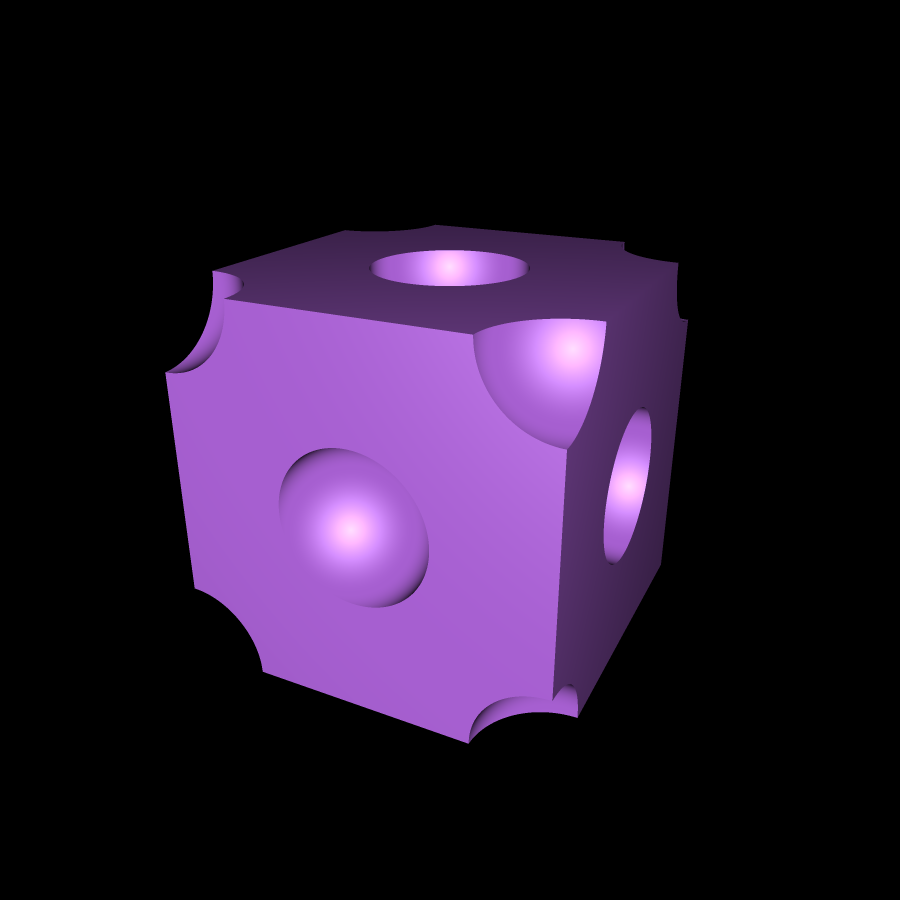
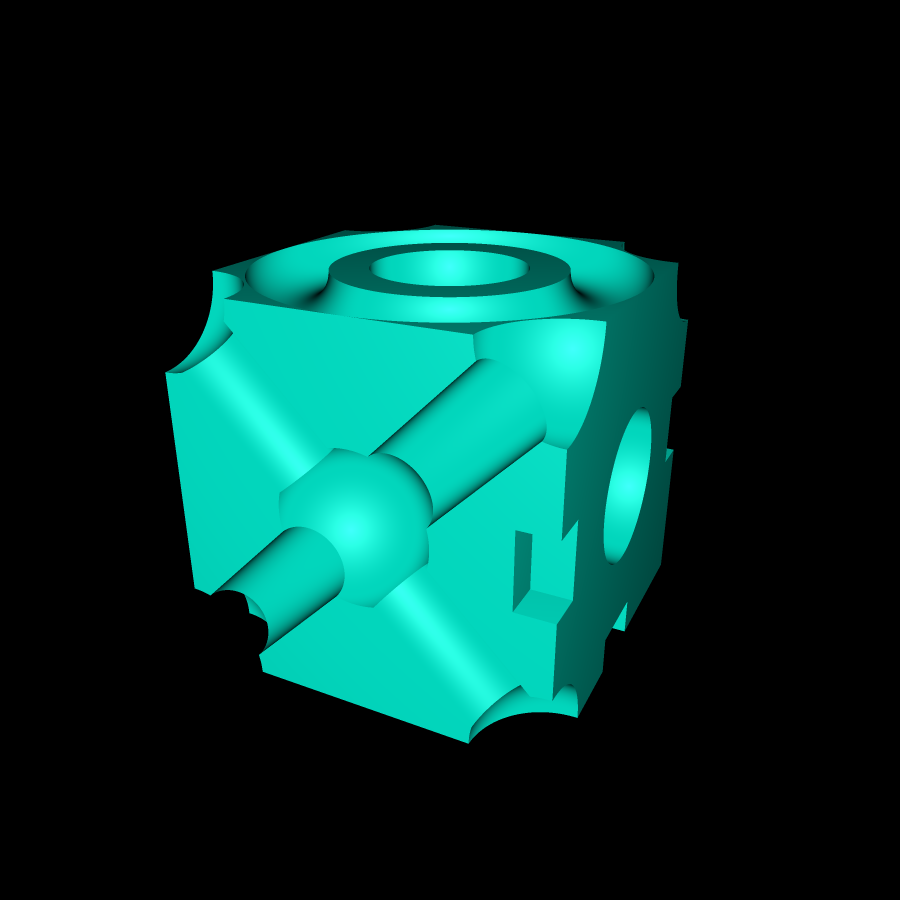
black cylinder cube torus

Changed region(s): [[0.1867, 0.2489, 0.7778, 0.84]]

diff --git a/src/main/java/rayTracer/objects/blackObjects/BlackCube.java b/src/main/java/rayTracer/objects/blackObjects/BlackCube.java
@@ -1,0 +1,168 @@
+package rayTracer.objects.blackObjects;
+
+import rayTracer.enums.MatrixTransformEnum;
+import rayTracer.math.Line3D;
+import rayTracer.math.Point3D;
+import rayTracer.math.Vector3D;
+import rayTracer.utils.Color;
+import rayTracer.utils.Cutter;
+import rayTracer.utils.Intersection;
+
+import java.util.List;
+
+public class BlackCube extends BlackObject{
+    protected static final Vector3D upNormal = new Vector3D(0, 0, 1);
+    protected static final Vector3D downNormal = new Vector3D(0, 0, -1);
+    protected static final Vector3D rightNormal = new Vector3D(0, 1, 0);
+    protected static final Vector3D leftNormal = new Vector3D(0, -1, 0);
+    protected static final Vector3D frontNormal = new Vector3D(-1, 0, 0);
+    protected static final Vector3D backNormal = new Vector3D(1, 0, 0);
+    protected  Vector3D realUpNormal;
+    protected  Vector3D realDownNormal;
+    protected  Vector3D realRightNormal;
+    protected  Vector3D realLeftNormal;
+    protected  Vector3D realFrontNormal;
+    protected  Vector3D realBackNormal;
+    protected double size;
+
+    public BlackCube(double size) {
+        super();
+        this.size = size / 2;
+    }
+
+    public void setNormals() {
+        try {
+            realUpNormal = transform.apply(upNormal, MatrixTransformEnum.TO_REAL);
+            realDownNormal = transform.apply(downNormal, MatrixTransformEnum.TO_REAL);
+            realRightNormal = transform.apply(rightNormal, MatrixTransformEnum.TO_REAL);
+            realLeftNormal = transform.apply(leftNormal, MatrixTransformEnum.TO_REAL);
+            realBackNormal = transform.apply(backNormal, MatrixTransformEnum.TO_REAL);
+            realFrontNormal = transform.apply(frontNormal, MatrixTransformEnum.TO_REAL);
+        } catch (Exception e) {
+
+        }
+    }
+
+    @Override
+    public void hit(Line3D ray, List<Intersection> intersections) throws Exception {
+        Line3D localRay = transform.apply(ray, MatrixTransformEnum.TO_LOCAL);
+
+        double x0, y0, z0, a, b, c;
+        x0 = localRay.getPX();
+        y0 = localRay.getPY();
+        z0 = localRay.getPZ();
+        a = localRay.getVX();
+        b = localRay.getVY();
+        c = localRay.getVZ();
+
+        double t;
+        double x, y, z;
+        if (c > EPSILON || c < -EPSILON) {
+            // UP
+            t = (size - z0) / c;
+            if(t > 0) {
+                x = x0 + a * t;
+                y = y0 + b * t;
+                z = size;
+
+                if (y >= -size && y <= size && x >= -size && x <= size) {
+                    Point3D localIntersection = new Point3D(x, y, z);
+                    Point3D realIntersection = transform.apply(localIntersection, MatrixTransformEnum.TO_REAL);
+                    double dist = Point3D.distanceBetween(realIntersection, ray.getPoint());
+                    Vector3D realNormal = realUpNormal;
+                    if(Vector3D.angleBetween(realNormal, ray.getVector()) < 90)
+                        realNormal = realDownNormal;
+                    intersections.add(new Intersection(realIntersection, realNormal, null, dist, 0, this));
+                }
+            }
+            // DOWN
+            t = (-size -z0) / c;
+            if(t > 0) {
+                x = x0 + a * t;
+                y = y0 + b * t;
+                z = -size;
+
+                if (y >= -size && y <= size && x >= -size && x <= size) {
+                    Point3D localIntersection = new Point3D(x, y, z);
+                    Point3D realIntersection = transform.apply(localIntersection, MatrixTransformEnum.TO_REAL);
+                    double dist = Point3D.distanceBetween(realIntersection, ray.getPoint());
+                    Vector3D realNormal = realDownNormal;
+                    if(Vector3D.angleBetween(realNormal, ray.getVector()) < 90)
+                        realNormal = realUpNormal;
+                    intersections.add(new Intersection(realIntersection, realNormal, null, dist, 0, this));
+                }
+            }
+        }
+        if (b > EPSILON || b < -EPSILON) {
+            // LEFT
+            t = (-size - y0) / b;
+            if(t > 0) {
+                x = x0 + a * t;
+                y = -size;
+                z = z0 + c * t;
+
+                if (z >= -size && z <= size && x >= -size && x <= size) {
+                    Point3D localIntersection = new Point3D(x, y, z);
+                    Point3D realIntersection = transform.apply(localIntersection, MatrixTransformEnum.TO_REAL);
+                    double dist = Point3D.distanceBetween(realIntersection, ray.getPoint());
+                    Vector3D realNormal = realLeftNormal;
+                    if(Vector3D.angleBetween(realNormal, ray.getVector()) < 90)
+                        realNormal = realRightNormal;
+                    intersections.add(new Intersection(realIntersection, realNormal, null, dist, 0, this));
+                }
+            }
+            // RIGHT
+            t = (size -y0) / b;
+            if(t > 0) {
+                x = x0 + a * t;
+                y = size;
+                z = z0 + c * t;
+
+                if (z >= -size && z <= size && x >= -size && x <= size) {
+                    Point3D localIntersection = new Point3D(x, y, z);
+                    Point3D realIntersection = transform.apply(localIntersection, MatrixTransformEnum.TO_REAL);
+                    double dist = Point3D.distanceBetween(realIntersection, ray.getPoint());
+                    Vector3D realNormal = realRightNormal;
+                    if(Vector3D.angleBetween(realNormal, ray.getVector()) < 90)
+                        realNormal = realLeftNormal;
+                    intersections.add(new Intersection(realIntersection, realNormal, null, dist, 0, this));
+                }
+            }
+        }
+        if (a > EPSILON || a < -EPSILON) {
+            // BACK
+            t = (size - x0) / a;
+            if(t > 0) {
+                x = size;
+                y = y0 + b * t;
+                z = z0 + c * t;
+
+                if (z >= -size && z <= size && y >= -size && y <= size) {
+                    Point3D localIntersection = new Point3D(x, y, z);
+                    Point3D realIntersection = transform.apply(localIntersection, MatrixTransformEnum.TO_REAL);
+                    double dist = Point3D.distanceBetween(realIntersection, ray.getPoint());
+                    Vector3D realNormal = realBackNormal;
+                    if(Vector3D.angleBetween(realNormal, ray.getVector()) < 90)
+                        realNormal = realFrontNormal;
+                    intersections.add(new Intersection(realIntersection, realNormal, null, dist, 0, this));
+                }
+            }
+            // FRONT
+            t = (-size - x0) / a;
+            if(t > 0) {
+                x = -size;
+                y = y0 + b * t;
+                z = z0 + c * t;
+
+                if (z >= -size && z <= size && y >= -size && y <= size) {
+                    Point3D localIntersection = new Point3D(x, y, z);
+                    Point3D realIntersection = transform.apply(localIntersection, MatrixTransformEnum.TO_REAL);
+                    double dist = Point3D.distanceBetween(realIntersection, ray.getPoint());
+                    Vector3D realNormal = realFrontNormal;
+                    if(Vector3D.angleBetween(realNormal, ray.getVector()) < 90)
+                        realNormal = realBackNormal;
+                    intersections.add(new Intersection(realIntersection, realNormal, null, dist, 0, this));
+                }
+            }
+        }
+    }}

diff --git a/src/main/java/rayTracer/objects/blackObjects/BlackTorus.java b/src/main/java/rayTracer/objects/blackObjects/BlackTorus.java
@@ -1,0 +1,77 @@
+package rayTracer.objects.blackObjects;
+
+import rayTracer.enums.MatrixTransformEnum;
+import rayTracer.math.Line3D;
+import rayTracer.math.Point3D;
+import rayTracer.math.Solver;
+import rayTracer.math.Vector3D;
+import rayTracer.utils.Cutter;
+import rayTracer.utils.Intersection;
+
+import java.util.List;
+
+public class BlackTorus extends BlackObject{
+    private final double r; //minor radius
+    private final double R; //major radius
+
+    public BlackTorus(double R, double r) {
+        super();
+        this.r = r;
+        this.R = R;
+    }
+
+    @Override
+    public void hit(Line3D ray, List<Intersection> intersections) throws Exception {
+        Line3D localRay = transform.apply(ray, MatrixTransformEnum.TO_LOCAL);
+        localRay.normalize();
+
+        double x0 = localRay.getPX();
+        double y00 = localRay.getPZ();
+        double z0 = localRay.getPY();
+
+        double a = localRay.getVX();
+        double b = localRay.getVZ();
+        double c = localRay.getVY();
+
+        double a2 = a*a;
+        double b2 = b*b;
+        double c2 = c*c;
+
+        double x02 = x0*x0;
+        double y02 = y00*y00;
+        double z02 = z0*z0;
+
+        double R2 = R*R;
+        double r2 = r*r;
+
+        double t4 = (a2 + b2 + c2) * (a2 + b2 + c2);
+        double t3 = 4 * (a2 + b2 + c2) * (x0*a + y00*b + z0*c);
+        double t2 = 2 * (a2 + b2 + c2) * (x02 + y02 + z02 - (r2 + R2)) + 4*(x0*a + y00*b + z0*c) * (x0*a + y00*b + z0*c)+ 4*R2*b2;
+        double t1 = 4 * (x02 + y02 + z02 - (r2 + R2)) * (x0*a + y00*b + z0*c) + 8*R2*y00*b;
+        double t0 = (x02 + y02 + z02 - (r2 + R2)) * (x02 + y02 + z02 - (r2 + R2)) - 4*R2*(r2 - y02);
+
+        List<Double> solutions = Solver.solve(t4, t3, t2, t1, t0);
+        for (int i = 0; i < solutions.size(); ++i) {
+            if (solutions.get(i) > EPSILON) {
+                Point3D localIntersection = new Point3D(
+                        localRay.getPX() + localRay.getVX() * solutions.get(i),
+                        localRay.getPY() + localRay.getVY() * solutions.get(i),
+                        localRay.getPZ() + localRay.getVZ() * solutions.get(i)
+                );
+                Point3D realIntersection = this.transform.apply(localIntersection, MatrixTransformEnum.TO_REAL);
+                Vector3D localNormal = getNormal(localIntersection);
+                Vector3D realNormal = this.transform.apply(localNormal, MatrixTransformEnum.TO_REAL);
+                if(Vector3D.angleBetween(realNormal, ray.getVector()) < 90)
+                    realNormal.inverse();
+                intersections.add(new Intersection(realIntersection, realNormal, null, Point3D.distanceBetween(ray.getPoint(), realIntersection), 0, this));
+            }
+        }
+    }
+
+    public Vector3D getNormal(Point3D localIntersection) {
+        Vector3D tmp = new Vector3D(localIntersection.getX(), localIntersection.getY(), 0);
+        tmp.normalize();
+        tmp.times(R);
+        return new Vector3D(localIntersection.getX() - tmp.getX(), localIntersection.getY() - tmp.getY(), localIntersection.getZ());
+    }
+}

diff --git a/src/main/java/rayTracer/objects/blackObjects/BlackCylinder.java b/src/main/java/rayTracer/objects/blackObjects/BlackCylinder.java
@@ -1,0 +1,53 @@
+package rayTracer.objects.blackObjects;
+
+import rayTracer.enums.MatrixTransformEnum;
+import rayTracer.math.Line3D;
+import rayTracer.math.Point3D;
+import rayTracer.math.Solver;
+import rayTracer.math.Vector3D;
+import rayTracer.utils.Cutter;
+import rayTracer.utils.Intersection;
+
+import java.util.List;
+
+public class BlackCylinder extends BlackObject{
+    private final double radius;
+
+    public BlackCylinder(double radius) {
+        super();
+        this.radius = radius;
+    }
+
+    @Override
+    public void hit(Line3D ray, List<Intersection> intersections) throws Exception {
+        Line3D localRay = transform.apply(ray, MatrixTransformEnum.TO_LOCAL);
+        localRay.normalize();
+        double a, b, c;
+        a = localRay.getVX() * localRay.getVX()+
+                localRay.getVY() * localRay.getVY();
+
+        b = 2 * localRay.getPX() * localRay.getVX() +
+                2 * localRay.getPY() * localRay.getVY();
+
+        c = localRay.getPX() * localRay.getPX() +
+                localRay.getPY() * localRay.getPY() -
+                radius * radius;
+
+        List<Double> solutions = Solver.solve(a, b, c);
+        for (int i = 0; i < solutions.size(); ++i) {
+            if (solutions.get(i) > EPSILON) {
+                Point3D localIntersection = new Point3D(
+                        localRay.getPX() + localRay.getVX() * solutions.get(i),
+                        localRay.getPY() + localRay.getVY() * solutions.get(i),
+                        localRay.getPZ() + localRay.getVZ() * solutions.get(i)
+                );
+                Point3D realIntersection = this.transform.apply(localIntersection, MatrixTransformEnum.TO_REAL);
+                Vector3D localNormal = new Vector3D(localIntersection.getX(), localIntersection.getY(), 0);
+                Vector3D realNormal = this.transform.apply(localNormal, MatrixTransformEnum.TO_REAL);
+                if(Vector3D.angleBetween(realNormal, ray.getVector()) < 90)
+                    realNormal.inverse();
+                intersections.add(new Intersection(realIntersection, realNormal, null, Point3D.distanceBetween(ray.getPoint(), realIntersection), 0, this));
+            }
+        }
+    }
+}

diff --git a/src/main/java/rayTracer/utils/SceneMaker.java b/src/main/java/rayTracer/utils/SceneMaker.java
@@ -1,8 +1,7 @@
 package rayTracer.utils;
 
 import rayTracer.objects.Obj;
-import rayTracer.objects.blackObjects.BlackObject;
-import rayTracer.objects.blackObjects.BlackSphere;
+import rayTracer.objects.blackObjects.*;
 import rayTracer.enums.CapacityTypeEnum;
 import rayTracer.enums.CutTypeEnum;
 import rayTracer.enums.PatternTypeEnum;
@@ -641,6 +640,33 @@ public class SceneMaker {
         blackSphere = new BlackSphere(10);
         blackSphere.updateMatrices(0, 0, 0, 1, 1, 1, 0, 25, 0);
         blackObjects.add(blackSphere);
+
+        BlackCylinder cylinder = new BlackCylinder(5);
+        cylinder.updateMatrices(45, 0, 0, 1, 1, 1, -25, 0, 0);
+        blackObjects.add(cylinder);
+
+        cylinder = new BlackCylinder(5);
+        cylinder.updateMatrices(-45, 0, 0, 1, 1, 1, -25, 0, 0);
+        blackObjects.add(cylinder);
+
+        BlackTorus blackTorus = new BlackTorus(20, 5);
+        blackTorus.updateMatrices(0, 0, 0, 1, 1, 1, 0, 0, 25);
+        blackObjects.add(blackTorus);
+
+        BlackCube blackCube = new BlackCube(10);
+        blackCube.updateMatrices(0, 0, 0, 1, 1, 1, 25, 25, 0);
+        blackCube.setNormals();
+        blackObjects.add(blackCube);
+
+        blackCube = new BlackCube(10);
+        blackCube.updateMatrices(0, 0, 0, 1, 1, 1, -25, 25, 0);
+        blackCube.setNormals();
+        blackObjects.add(blackCube);
+
+        blackCube = new BlackCube(10);
+        blackCube.updateMatrices(0, 0, 0, 1, 1, 1, 0, 25, -25);
+        blackCube.setNormals();
+        blackObjects.add(blackCube);
 
 
         //lights.add(new Light(new Point3D(-100, 100, 100)));

diff --git a/src/main/java/rayTracer/utils/Calculator.java b/src/main/java/rayTracer/utils/Calculator.java
@@ -286,7 +286,7 @@ public class Calculator implements Runnable{
         if (angle >= 135) {
             // 1.0 -> 0 of ambient 180 135
             double rest = (angle - 135) * 2;
-            tmp.add(config.ambientLight.reduceOf(Math.cos(Math.toRadians(rest))).reduceOf(0.5));
+            tmp.add(config.ambientLight.reduceOf(Math.cos(Math.toRadians(rest))).reduceOf(0.75));
         } else if(angle >= 90) {
             // 0 -> 1 of shadow 135 -> 90
             double rest = (angle - 90) * 2;
